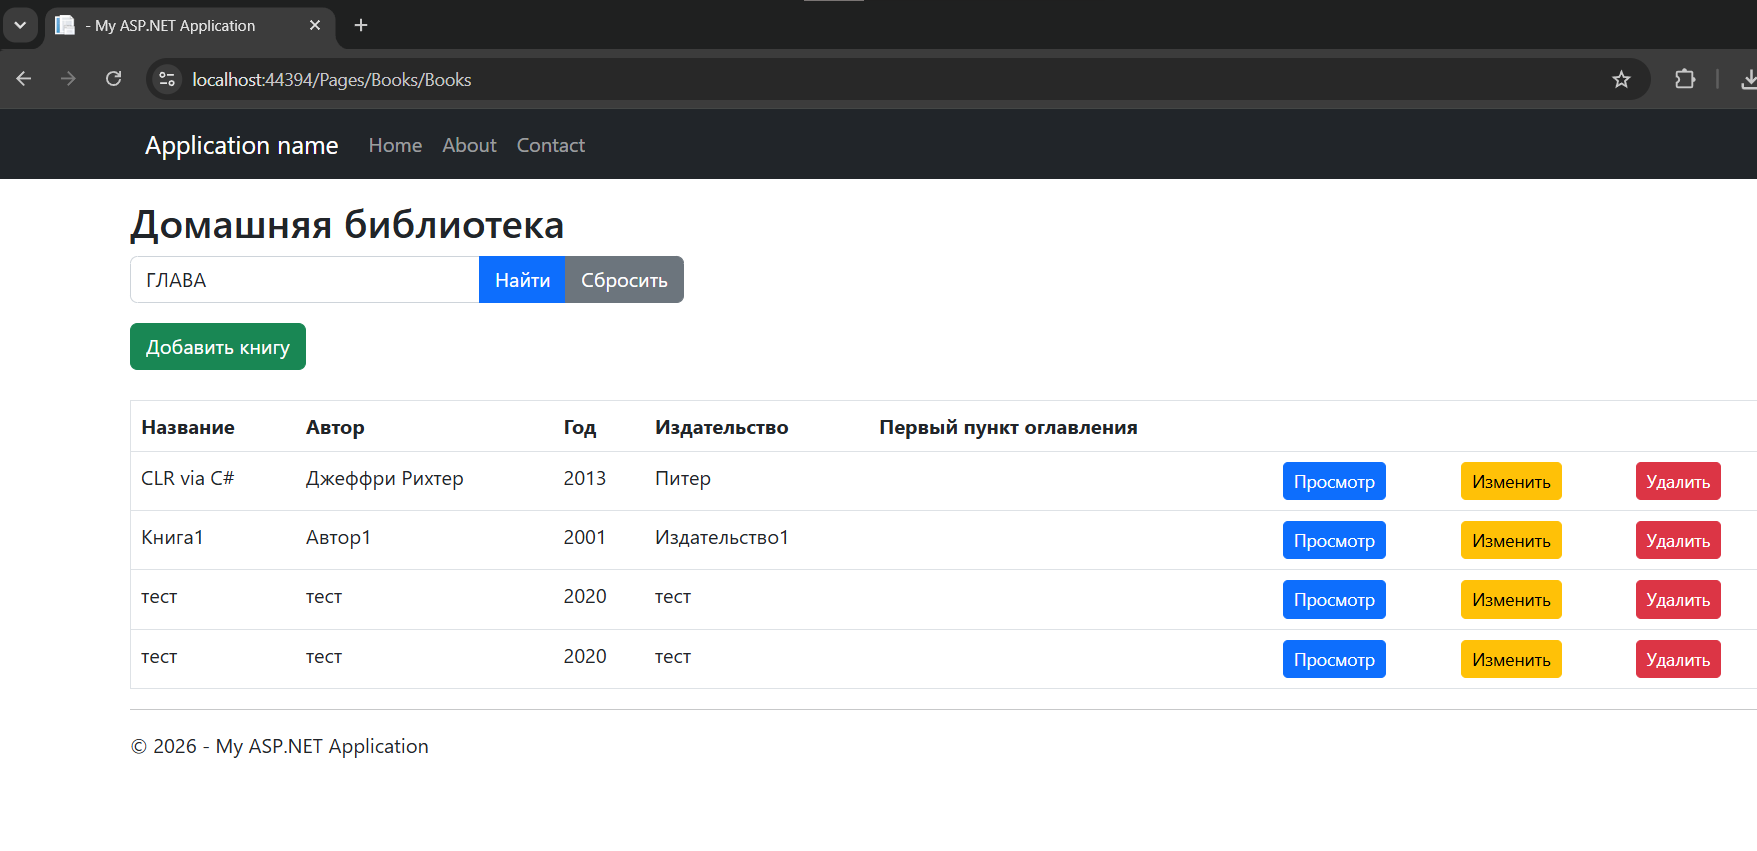
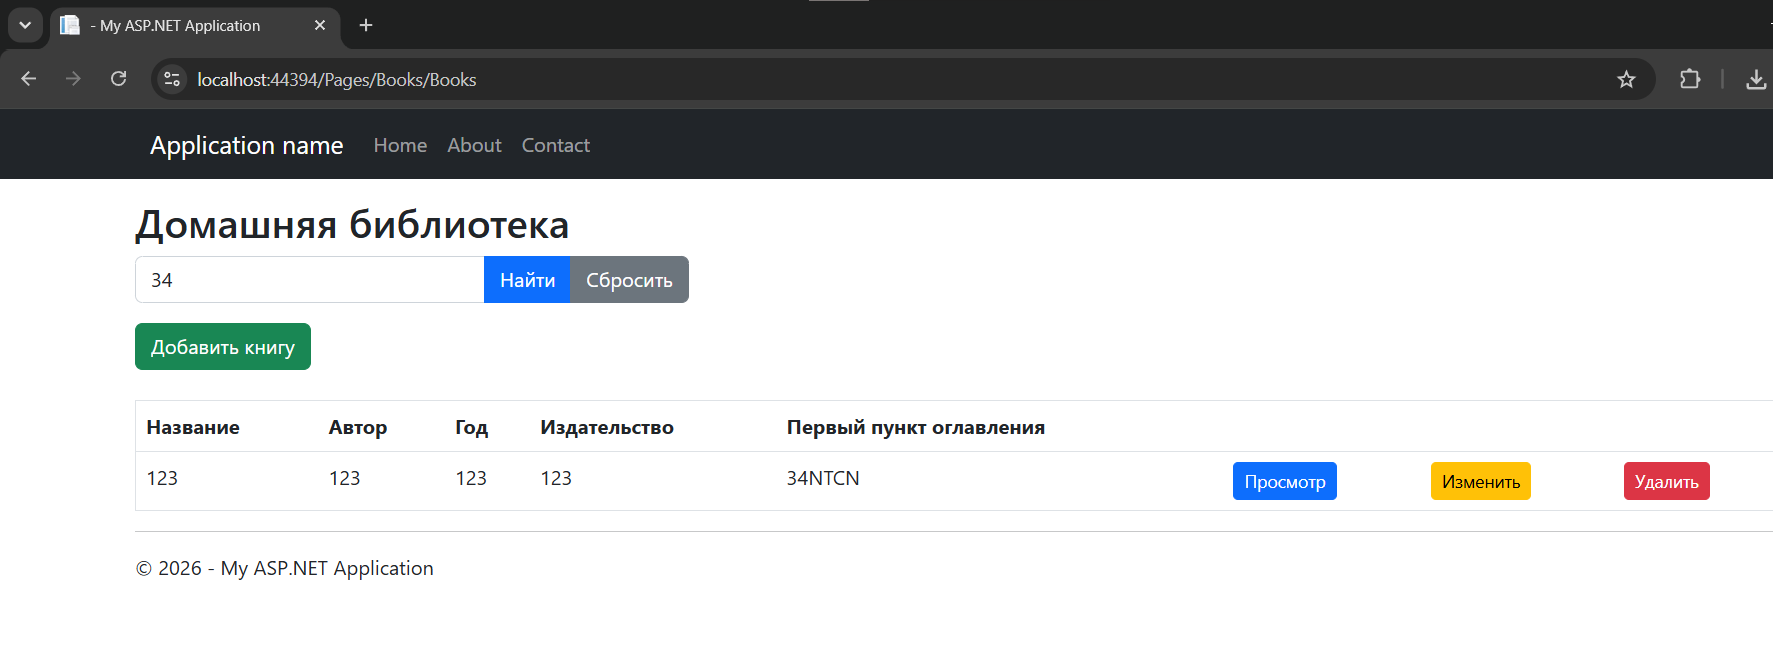
Refactor URL generation with BookUrls helper class
Centralize and standardize book-related page URLs using the new BookUrls static helper. Replace hardcoded URLs in code-behind and ASPX files with helper methods for improved maintainability and consistency. Update project file to include BookUrls.cs. Refactor BookDelete.aspx.cs to use RegisterAsyncTask and enhance redirect logic.

diff --git a/src/Tesr4AConsulting.WebForms/Pages/Books/BookDelete.aspx.cs b/src/Tesr4AConsulting.WebForms/Pages/Books/BookDelete.aspx.cs
@@ -1,5 +1,8 @@
 using System;
 using System.Configuration;
+using System.Threading.Tasks;
+using System.Web.UI;
+using Tesr4AConsulting.WebForms.Helpers;
 using Tesr4AConsulting.WebForms.Repositories;
 
 namespace Tesr4AConsulting.WebForms.Pages.Books
@@ -12,48 +15,60 @@ namespace Tesr4AConsulting.WebForms.Pages.Books
                     .ConnectionStrings["DefaultConnection"]
                     .ConnectionString);
 
-        protected async void Page_Load(
+        protected void Page_Load(
             object sender,
             EventArgs e)
         {
             if (!IsPostBack)
             {
-                var id = GetBookId();
-
-                if (id == null)
-                {
-                    Response.Redirect("~/Books.aspx");
-                    return;
-                }
-
-                var book =
-                    await _repository.GetByIdAsync(id.Value);
-
-                if (book == null)
-                {
-                    Response.Redirect("~/Books.aspx");
-                    return;
-                }
-
-                TitleLabel.Text = book.Title;
-                AuthorLabel.Text = book.Author;
-                YearLabel.Text =
-                    book.PublicationYear?.ToString() ?? "";
-
-                CancelLink.NavigateUrl =
-                    "~/BookDetails.aspx?id=" + book.Id;
+                RegisterAsyncTask(
+                    new PageAsyncTask(LoadBookAsync));
             }
         }
 
-        protected async void DeleteButton_Click(
-            object sender,
-            EventArgs e)
+        private async Task LoadBookAsync()
         {
             var id = GetBookId();
 
             if (id == null)
             {
-                Response.Redirect("~/Books.aspx");
+                RedirectToBooks();
+                return;
+            }
+
+            var book =
+                await _repository.GetByIdAsync(id.Value);
+
+            if (book == null)
+            {
+                RedirectToBooks();
+                return;
+            }
+
+            TitleLabel.Text = book.Title;
+            AuthorLabel.Text = book.Author;
+            YearLabel.Text =
+                book.PublicationYear?.ToString() ?? "";
+
+            CancelLink.NavigateUrl =
+                BookUrls.BookDetails(book.Id);
+        }
+
+        protected void DeleteButton_Click(
+            object sender,
+            EventArgs e)
+        {
+            RegisterAsyncTask(
+                new PageAsyncTask(DeleteBookAsync));
+        }
+
+        private async Task DeleteBookAsync()
+        {
+            var id = GetBookId();
+
+            if (id == null)
+            {
+                RedirectToBooks();
                 return;
             }
 
@@ -61,7 +76,7 @@ namespace Tesr4AConsulting.WebForms.Pages.Books
             {
                 await _repository.DeleteAsync(id.Value);
 
-                Response.Redirect("~/Books.aspx");
+                RedirectToBooks();
             }
             catch (Exception ex)
             {
@@ -84,6 +99,15 @@ namespace Tesr4AConsulting.WebForms.Pages.Books
             }
 
             return null;
+        }
+
+        private void RedirectToBooks()
+        {
+            Response.Redirect(
+                BookUrls.Books(),
+                false);
+
+            Context.ApplicationInstance.CompleteRequest();
         }
     }
 }

diff --git a/src/Tesr4AConsulting.WebForms/Pages/Books/BookEdit.aspx.cs b/src/Tesr4AConsulting.WebForms/Pages/Books/BookEdit.aspx.cs
@@ -1,9 +1,10 @@
 using System;
+using System.Configuration;
 using System.Linq;
 using System.Threading.Tasks;
 using System.Web.UI;
 using System.Xml.Linq;
-using System.Configuration;
+using Tesr4AConsulting.WebForms.Helpers;
 using Tesr4AConsulting.WebForms.Models;
 using Tesr4AConsulting.WebForms.Repositories;
 
@@ -45,7 +46,7 @@ namespace Tesr4AConsulting.WebForms.Pages.Books
 
             if (id == null)
             {
-                Response.Redirect("~/Books.aspx");
+                Response.Redirect(BookUrls.Books());
                 return;
             }
 
@@ -53,7 +54,7 @@ namespace Tesr4AConsulting.WebForms.Pages.Books
 
             if (book == null)
             {
-                Response.Redirect("~/Books.aspx");
+                Response.Redirect(BookUrls.Books());
                 return;
             }
 
@@ -69,8 +70,7 @@ namespace Tesr4AConsulting.WebForms.Pages.Books
             ContentsTextBox.Text =
                 ExtractContents(book.Contents);
 
-            CancelLink.NavigateUrl =
-                "~/BookDetails.aspx?id=" + book.Id;
+            CancelLink.NavigateUrl = BookUrls.BookDetails(book.Id);
         }
 
         protected async void SaveButton_Click(
@@ -89,7 +89,7 @@ namespace Tesr4AConsulting.WebForms.Pages.Books
 
             if (id == null)
             {
-                Response.Redirect("~/Books.aspx", false);
+                Response.Redirect(BookUrls.Books(), false);
                 Context.ApplicationInstance.CompleteRequest();
                 return;
             }
@@ -146,7 +146,7 @@ namespace Tesr4AConsulting.WebForms.Pages.Books
             await _repository.UpdateAsync(book);
 
             Response.Redirect(
-                "~/BookDetails.aspx?id=" + id.Value,
+                BookUrls.BookDetails(id.Value),
                 false);
 
             Context.ApplicationInstance.CompleteRequest();

diff --git a/src/Tesr4AConsulting.WebForms/Pages/Books/BookDetails.aspx.cs b/src/Tesr4AConsulting.WebForms/Pages/Books/BookDetails.aspx.cs
@@ -1,7 +1,8 @@
 using System;
+using System.Configuration;
 using System.Linq;
 using System.Threading.Tasks;
-using System.Configuration;
+using Tesr4AConsulting.WebForms.Helpers;
 using Tesr4AConsulting.WebForms.Repositories;
 
 namespace Tesr4AConsulting.WebForms.Pages.Books
@@ -30,7 +31,7 @@ namespace Tesr4AConsulting.WebForms.Pages.Books
 
             if (!int.TryParse(Request.QueryString["id"], out id))
             {
-                Response.Redirect("~/Books.aspx");
+                Response.Redirect(BookUrls.Books());
                 return;
             }
 
@@ -38,7 +39,7 @@ namespace Tesr4AConsulting.WebForms.Pages.Books
 
             if (book == null)
             {
-                Response.Redirect("~/Books.aspx");
+                Response.Redirect(BookUrls.Books());
                 return;
             }
 
@@ -49,11 +50,11 @@ namespace Tesr4AConsulting.WebForms.Pages.Books
             IsbnLabel.Text = book.Isbn;
             DescriptionLabel.Text = book.Description;
 
-            EditLink.NavigateUrl =
-                "~/BookEdit.aspx?id=" + book.Id;
+            EditLink.NavigateUrl = BookUrls.BookEdit(book.Id);
 
-            DeleteLink.NavigateUrl =
-                "~/BookDelete.aspx?id=" + book.Id;
+            DeleteLink.NavigateUrl = BookUrls.BookDelete(book.Id);
+
+            BackLink.NavigateUrl = BookUrls.Books();
 
             var contents =
                 (await _repository.GetContentsAsync(id))

diff --git a/src/Tesr4AConsulting.WebForms/Pages/Books/BookCreate.aspx.cs b/src/Tesr4AConsulting.WebForms/Pages/Books/BookCreate.aspx.cs
@@ -1,8 +1,9 @@
 using System;
+using System.Configuration;
 using System.Threading.Tasks;
 using System.Web.UI;
 using System.Xml.Linq;
-using System.Configuration;
+using Tesr4AConsulting.WebForms.Helpers;
 using Tesr4AConsulting.WebForms.Models;
 using Tesr4AConsulting.WebForms.Repositories;
 
@@ -20,6 +21,10 @@ namespace Tesr4AConsulting.WebForms.Pages.Books
             object sender,
             EventArgs e)
         {
+            if (!IsPostBack)
+            {
+                CancelLink.NavigateUrl = BookUrls.Books();
+            }
         }
 
         protected void SaveButton_Click(
@@ -86,7 +91,7 @@ namespace Tesr4AConsulting.WebForms.Pages.Books
             var id = await _repository.InsertAsync(book);
 
             Response.Redirect(
-                "~/BookDetails.aspx?id=" + id,
+                BookUrls.BookDetails(id),
                 false);
 
             Context.ApplicationInstance.CompleteRequest();

diff --git a/src/Tesr4AConsulting.WebForms/Helpers/BookUrls.cs b/src/Tesr4AConsulting.WebForms/Helpers/BookUrls.cs
@@ -1,0 +1,22 @@
+namespace Tesr4AConsulting.WebForms.Helpers
+{
+    public static class BookUrls
+    {
+        private const string BooksPath = "~/Pages/Books/";
+
+        public static string Books()
+            => BooksPath + "Books.aspx";
+
+        public static string BookCreate()
+            => BooksPath + "BookCreate.aspx";
+
+        public static string BookDetails(int id)
+            => $"{BooksPath}BookDetails.aspx?id={id}";
+
+        public static string BookEdit(int id)
+            => $"{BooksPath}BookEdit.aspx?id={id}";
+
+        public static string BookDelete(int id)
+            => $"{BooksPath}BookDelete.aspx?id={id}";
+    }
+}
